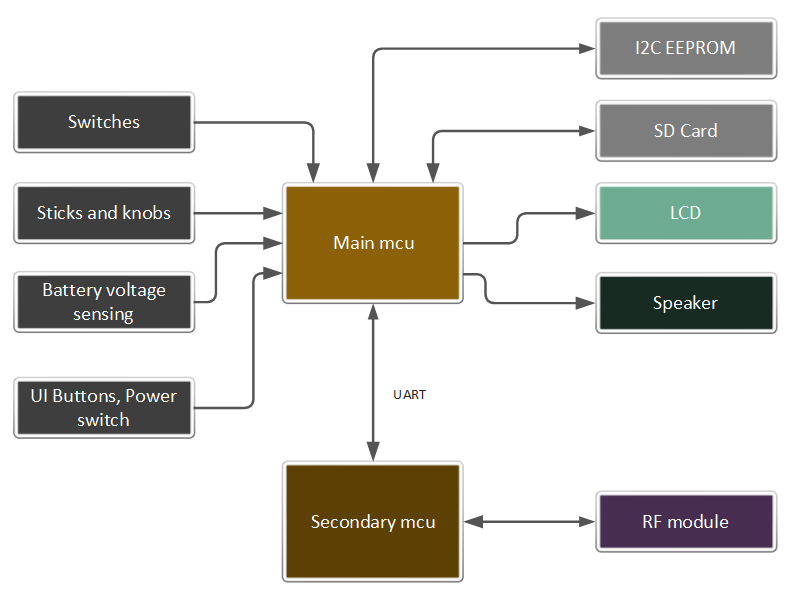
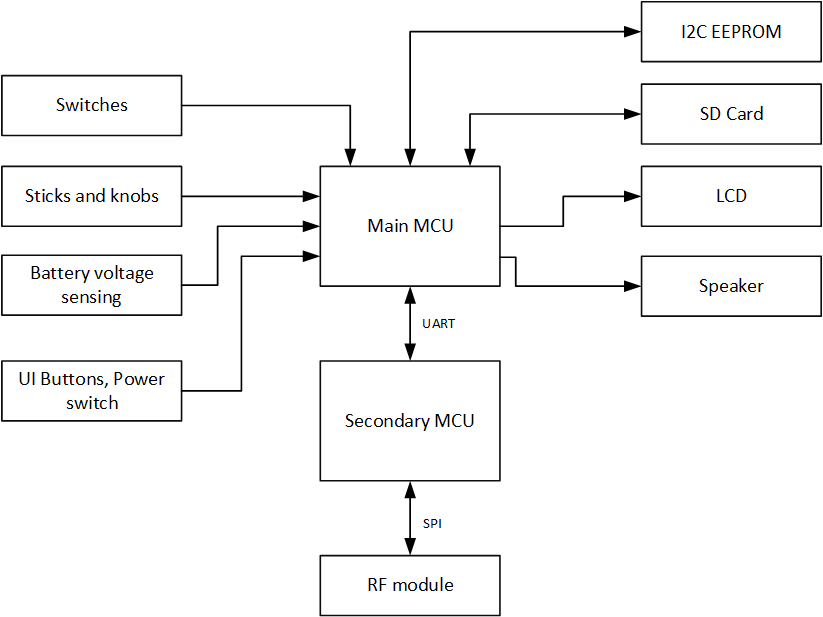
Improve documentation (#69)

Pull request: Improve documentation

diff --git a/doc/mixer.md b/doc/mixer.md
@@ -7,6 +7,20 @@ This controller features a mixer system that draws inspiration from that found i
 <img src="images/screenshots/mixer_context_menu.png"/>
 </p>
 
+## Mixer fields
+- **Output:** The channel that is to be affected by the mix. If none, the mix is inactive and is not computed.
+- **Switch:** The control switch to turn the mix on or off. The mix is always active if no switch is specified.
+- **Operation:** Add, Multiply, Replace with, Hold.
+- **Input:** This is the mixer source.
+- **Weight:** Determines how much of an effect the input has on the output. -100 to 100.
+- **Offset:** The input is offset by this value after the weight has been applied. -100 to 100.
+- **Curve:** Differential, Expo, Function, Custom curve.
+- **Curve value:** Differential {-100 to 100}, Expo {-100 to 100}, Function {x>0, x<0, |x|}, Curve name if custom curve.
+- **Trim:** Whether to add trim or not.
+- **F-Mode:** The flight mode in which the mix applies.
+- **Delay Up and Down:** This is used to delay the input. 0 to 60 seconds.
+- **Slow Up and Down:** This when non-zero specifies how fast the input changes. 0 to 60 seconds.
+
 ## Mixer sources
 Mixer sources can be any of the following:
 - Raw stick axes (X1, Y1, X2, Y2, ...)
@@ -22,19 +36,16 @@ Mixer sources can be any of the following:
 
 Counters can also be used as inputs in the mixer, although they are not classified as true mixer sources.
 
-## Mixer fields
-- **Output:** The channel that is to be affected by the mix. If none, the mix is inactive and is not computed.
-- **Switch:** The control switch to turn the mix on or off. The mix is always active if no switch is specified.
-- **Operation:** Add, Multiply, Replace, Hold.
-- **Input:** This is the mixer source.
-- **Weight:** Determines how much of an effect the input has on the output. -100 to 100.
-- **Offset:** The input is offset by this value after the weight has been applied. -100 to 100.
-- **Curve:** Differential, Expo, Function, Custom curve.
-- **Curve value:** Differential {-100 to 100}, Expo {-100 to 100}, Function {x>0, x<0, |x|}, Curve name if custom curve.
-- **Trim:** Whether to add trim or not.
-- **F-Mode:** The flight mode in which the mix applies.
-- **Delay Up and Down:** This is used to delay the input. 0 to 60 seconds.
-- **Slow Up and Down:** This when non-zero specifies how fast the input changes. 0 to 60 seconds.
+## Control switches
+- Physical switches (SwA↑, SwA−, SwA↓, ...).
+- Logical switches (L1, L2, ..., !L1, !L2, ...).
+- Trim buttons (X1Trim←, X1Trim→, Y1Trim↑, Y1Trim↓, ...).
+- Flight modes as control switches (Fmd1, Fmd2, ..., !Fmd1, !Fmd2, ...)
+
+**Note:**
+- The symbols ↑, −, ↓ correspond to the up, middle (center), and down positions of physical switches, respectively. The ↑ and ↓ symbols are also used on vertical trim buttons to indicate an active upward or downward press.
+- The symbols ←, → denote the left and right press states of the horizontal trim buttons.
+- The ! symbol functions as a logical NOT operator. For example, the condition "!SwC↑" evaluates as true when Switch C is not in the up position.
 
 ## Order of mixer operations
 <p align="left">
@@ -55,12 +66,11 @@ Counters can also be used as inputs in the mixer, although they are not classifi
 - **Show overview:** Display a summary of the configured mixes. In the overview screen, click the Select button to display a tooltip with extra information about the highlighted mix line.
 
 ## Important safety note
-When editing mixes, it is recommended to disable RF output or remove propellers first.
-<br>This is because all changes/adjustments made are applied instantly and may bring surprises :-)
+When editing mixes, it is recommended to disable RF output or remove propellers first. This is because all changes/adjustments made are applied instantly and may bring surprises.
 
 ## Example mixes
 **Note:** 
-- The convention used in these examples is -ve for left/downward going control surfaces, +ve for right/upward going control surfaces. For example if the Ail stick is moved right, the left aileron moves down and the right aileron moves up. Hence we use a negative weight for the left aileron and a positive weight for the right aileron.
+- The convention used in these examples is negative for left/downward going control surfaces, positive for right/upward going control surfaces. For example if the Ail stick is moved right, the left aileron moves down and the right aileron moves up. Hence we use a negative weight for the left aileron and a positive weight for the right aileron.
 - If a servo is moving in wrong direction, reversing the direction in Outputs screen solves this.
 - The Mixer is all about control logic. Any mechanical differences should be handled in the Outputs screen and not inside the Mixer.
 

diff --git a/doc/overview.md b/doc/overview.md
@@ -18,9 +18,16 @@ Many of these numbers are easily customisable in the source code, the limit bein
 
 ## System architecture
 
-#### Hardware block diagram
+### Transmitter hardware block diagram
+
 <p align="left">
 <img src="images/tx_block_diagram.png" width="600"/>
+</p>
+
+### Receiver hardware block diagram
+
+<p align="left">
+<img src="images/rx_block_diagram.png" width="600"/>
 </p>
 
 ## RF protocol
@@ -33,6 +40,5 @@ The main features are:-
 - Telemetry support
 
 ---
-
 
 Back to [user guide](user_guide.md).

diff --git a/doc/user_guide.md b/doc/user_guide.md
@@ -19,3 +19,6 @@
 - [Telemetry](telemetry.md)  
 - [System](system_settings.md)  
 - [Receiver](receiver_config.md)  
+
+See also
+- [Frequently Asked Questions](faq.md)  